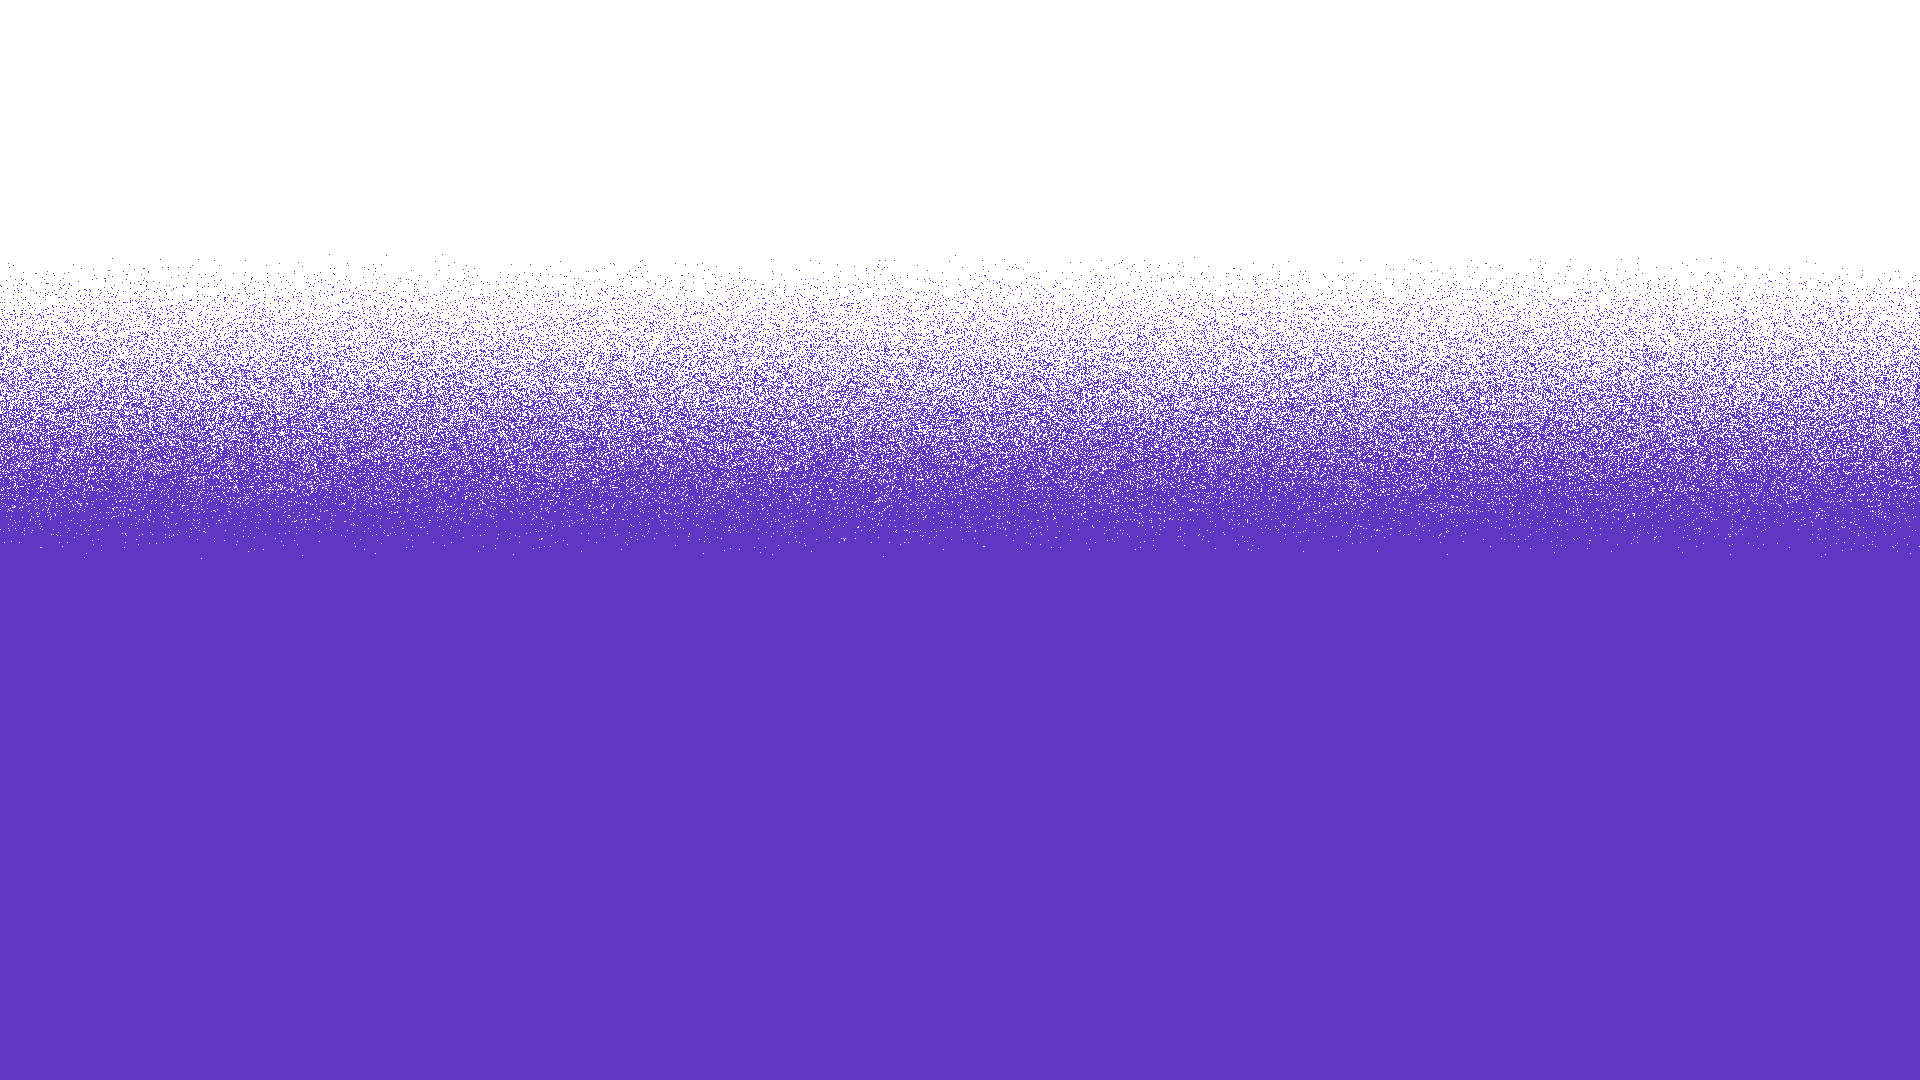
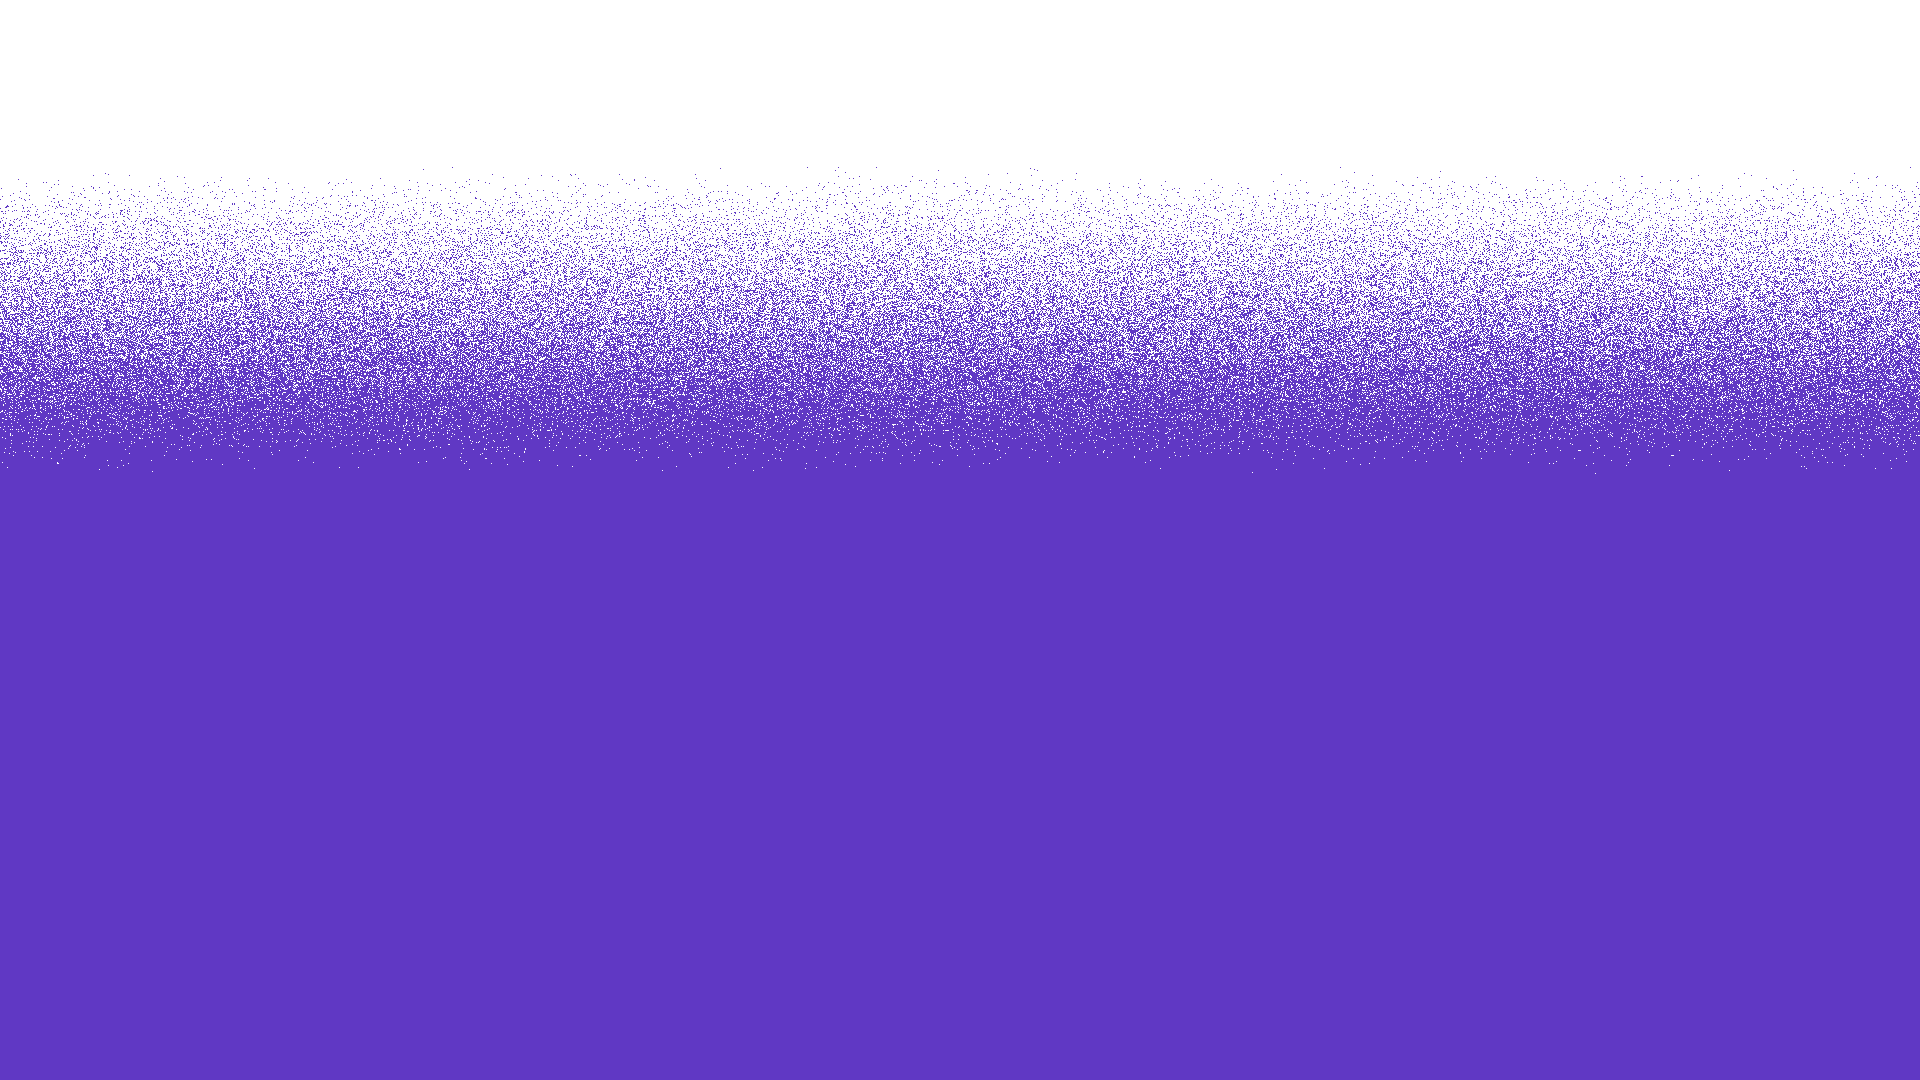
Raise the scene dissolve

Changed region(s): [[0.0, 0.2139, 1.0, 0.4583]]

diff --git a/src/styles.css b/src/styles.css
@@ -40,7 +40,7 @@ button{font:inherit}
 .animal-parallax[data-hit="true"],.animal-parallax:has(.animal:focus-visible){filter:drop-shadow(0 0 .16rem #fff) drop-shadow(0 0 .65rem color-mix(in srgb,var(--glow) 72%,#fff)) drop-shadow(0 0 1.9rem color-mix(in srgb,var(--glow) 84%,transparent)) brightness(1.1) saturate(1.1)}
 .poster-background,.noscript-image{z-index:0;display:block;object-fit:cover;object-position:center;user-select:none;-webkit-user-drag:none}
 .poster-background{transform:scale(1.035);will-change:opacity,filter}
-.dither-motion{position:absolute;z-index:1;inset:0;overflow:hidden;mix-blend-mode:soft-light;pointer-events:none;-webkit-mask-image:linear-gradient(to bottom,transparent 16%,#000 27%,#000 46%,transparent 58%);mask-image:linear-gradient(to bottom,transparent 16%,#000 27%,#000 46%,transparent 58%)}
+.dither-motion{position:absolute;z-index:1;inset:0;overflow:hidden;mix-blend-mode:soft-light;pointer-events:none;-webkit-mask-image:linear-gradient(to bottom,transparent 8%,#000 18%,#000 39%,transparent 49%);mask-image:linear-gradient(to bottom,transparent 8%,#000 18%,#000 39%,transparent 49%)}
 .dither-layer{position:absolute;inset:-8%;display:block;opacity:.12;background-repeat:repeat;image-rendering:pixelated;will-change:transform,opacity,background-position}
 .dither-layer-a{background-image:radial-gradient(circle,rgba(255,255,255,.9) 0 .7px,transparent .85px);background-size:4px 4px}
 .dither-layer-b{background-image:radial-gradient(circle,rgba(0,0,0,.72) 0 .65px,transparent .8px);background-position:2px 1px;background-size:5px 5px;mix-blend-mode:overlay}
